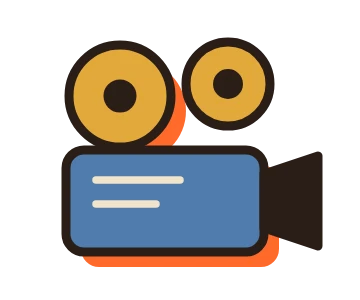
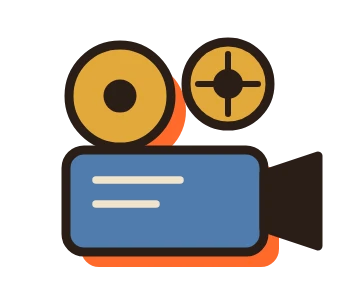
Vintage movies: only the big reel turns (two reels orbited the middle)
Claude-Session: https://claude.ai/code/session_01KD8PPoNUFadTNfyLTrZ2Xp

diff --git a/art/icon-sets/motion.py b/art/icon-sets/motion.py
@@ -19,7 +19,8 @@ TABLE = {
         'play': ('pulse', ['<circle cx="82" cy="60"', '<circle cx="97" cy="54"']),
         'apps': ('bob', ['<rect x="64" y="10" width="36" height="36" rx="8" fill="#E2A93B"']),
         'series': ('nudge', ['<path d="M66 78 h40', '<path d="M74 86 H96"']),
-        'movies': ('spin', ['<path d="M40 20 V44 M28 32 H52 M76 18 V38 M66 28 H86"']),
+        # only the big reel turns (one centre: two reels would orbit around the middle)
+        'movies': ('spin', ['<path d="M40 20 V44 M28 32 H52"']),
         'podcasts': ('wiggle', ['<rect x="44" y="8" width="32" height="50" rx="16" fill="#E2A93B"', '<path d="M48 22 H72']),
         'radio': ('nudge', ['<path d="M82 46 V58"']),
         'network': ('twinkle', ['<path d="M86 52 a16 16']),
